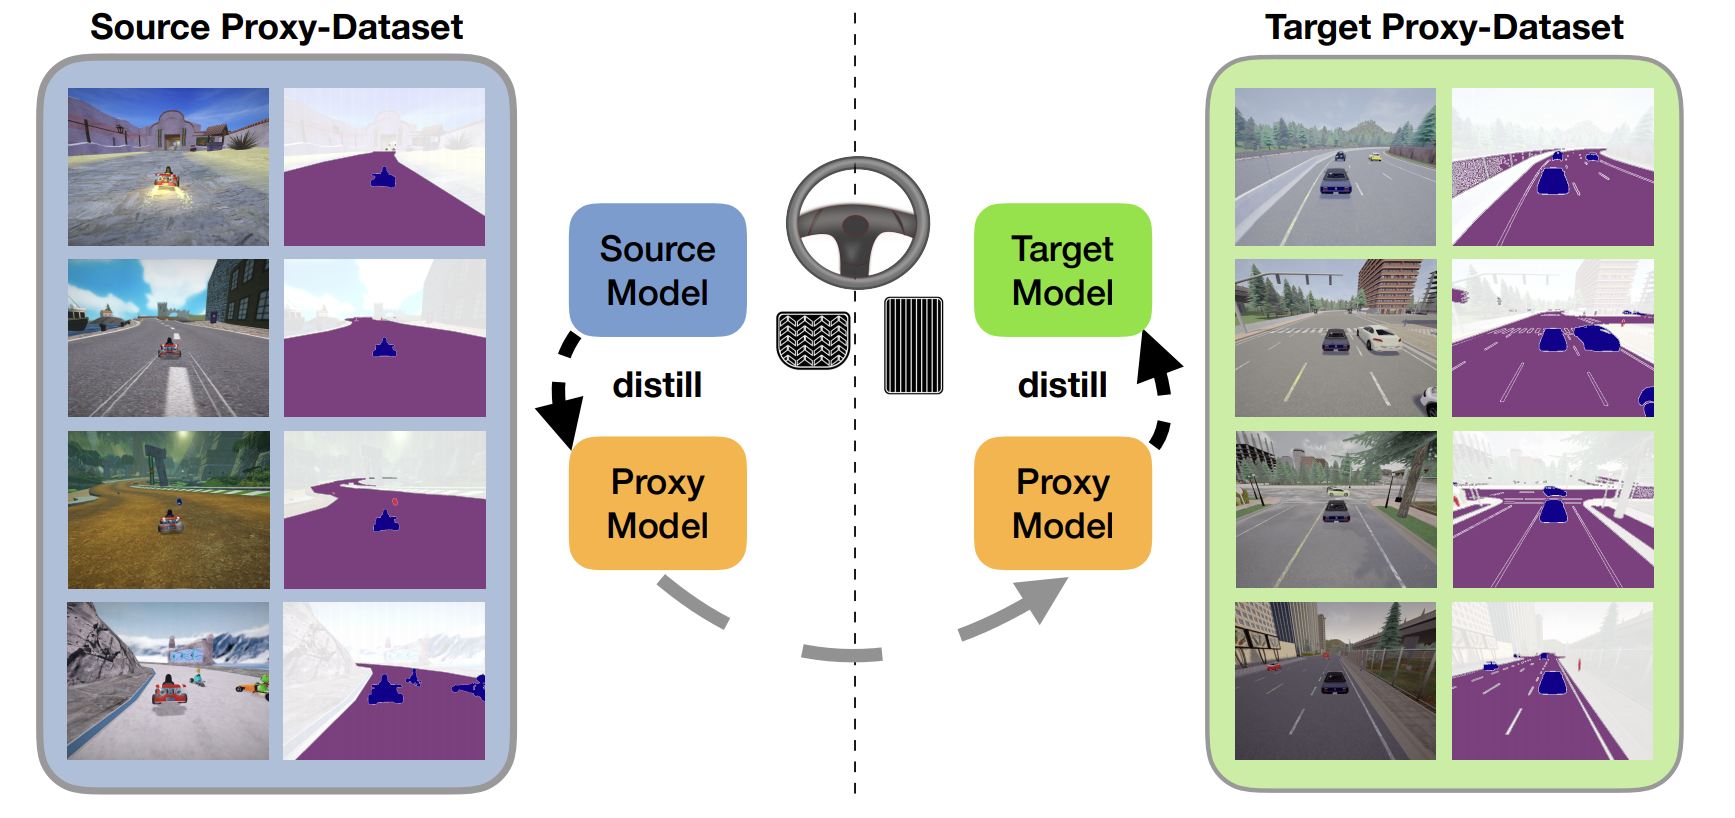
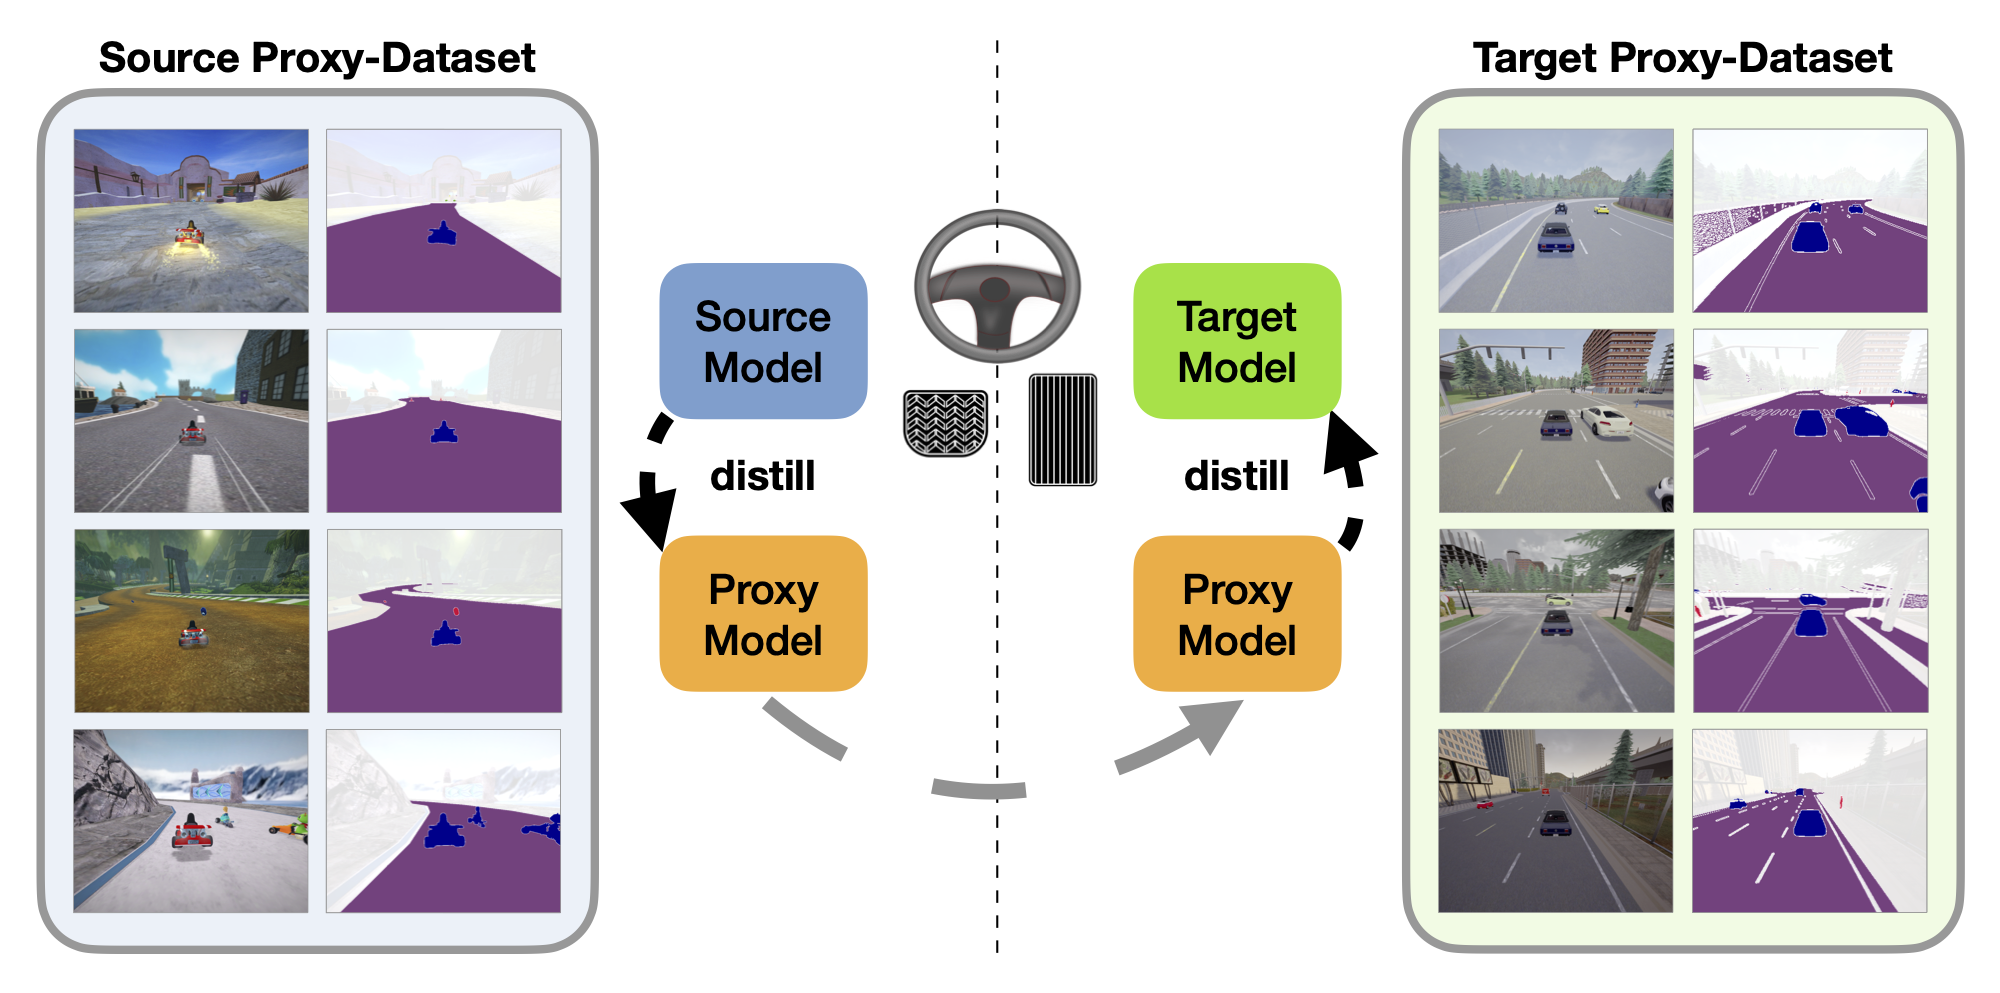
update teaser

diff --git a/README.md b/README.md
@@ -1,8 +1,17 @@
-# Domain Adaptation through Task Distillation
+# Domain Adaptation Through Task Distillation
 
 ![teaser](assets/teaser.png)
-> **Domain Adaptation through Task Distillation**  
-> Brady Zhou\*, Nimit Kalra\*, Philipp Kr&auml;henb&uuml;hl,        
-> [European Conference on Computer Vision](https://www.eccv2020.eu) (ECCV 2020)      
+> **Domain Adaptation Through Task Distillation**  
+> Brady Zhou\*, Nimit Kalra\*, Philipp Kr&auml;henb&uuml;hl,  
+> [European Conference on Computer Vision](https://eccv2020.eu) (ECCV 2020)
+
+```bibtex
+@inproceedings{zhou2020domain,
+    title={Domain Adaptation Through Task Distillation},
+    author={Zhou, Brady and Kalra, Nimit and Kr{\"a}henb{\"u}hl, Philipp},
+    booktitle={ECCV},
+    year={2020}
+}
+```
 
 Code getting a facelift. Check back on August 23rd!
